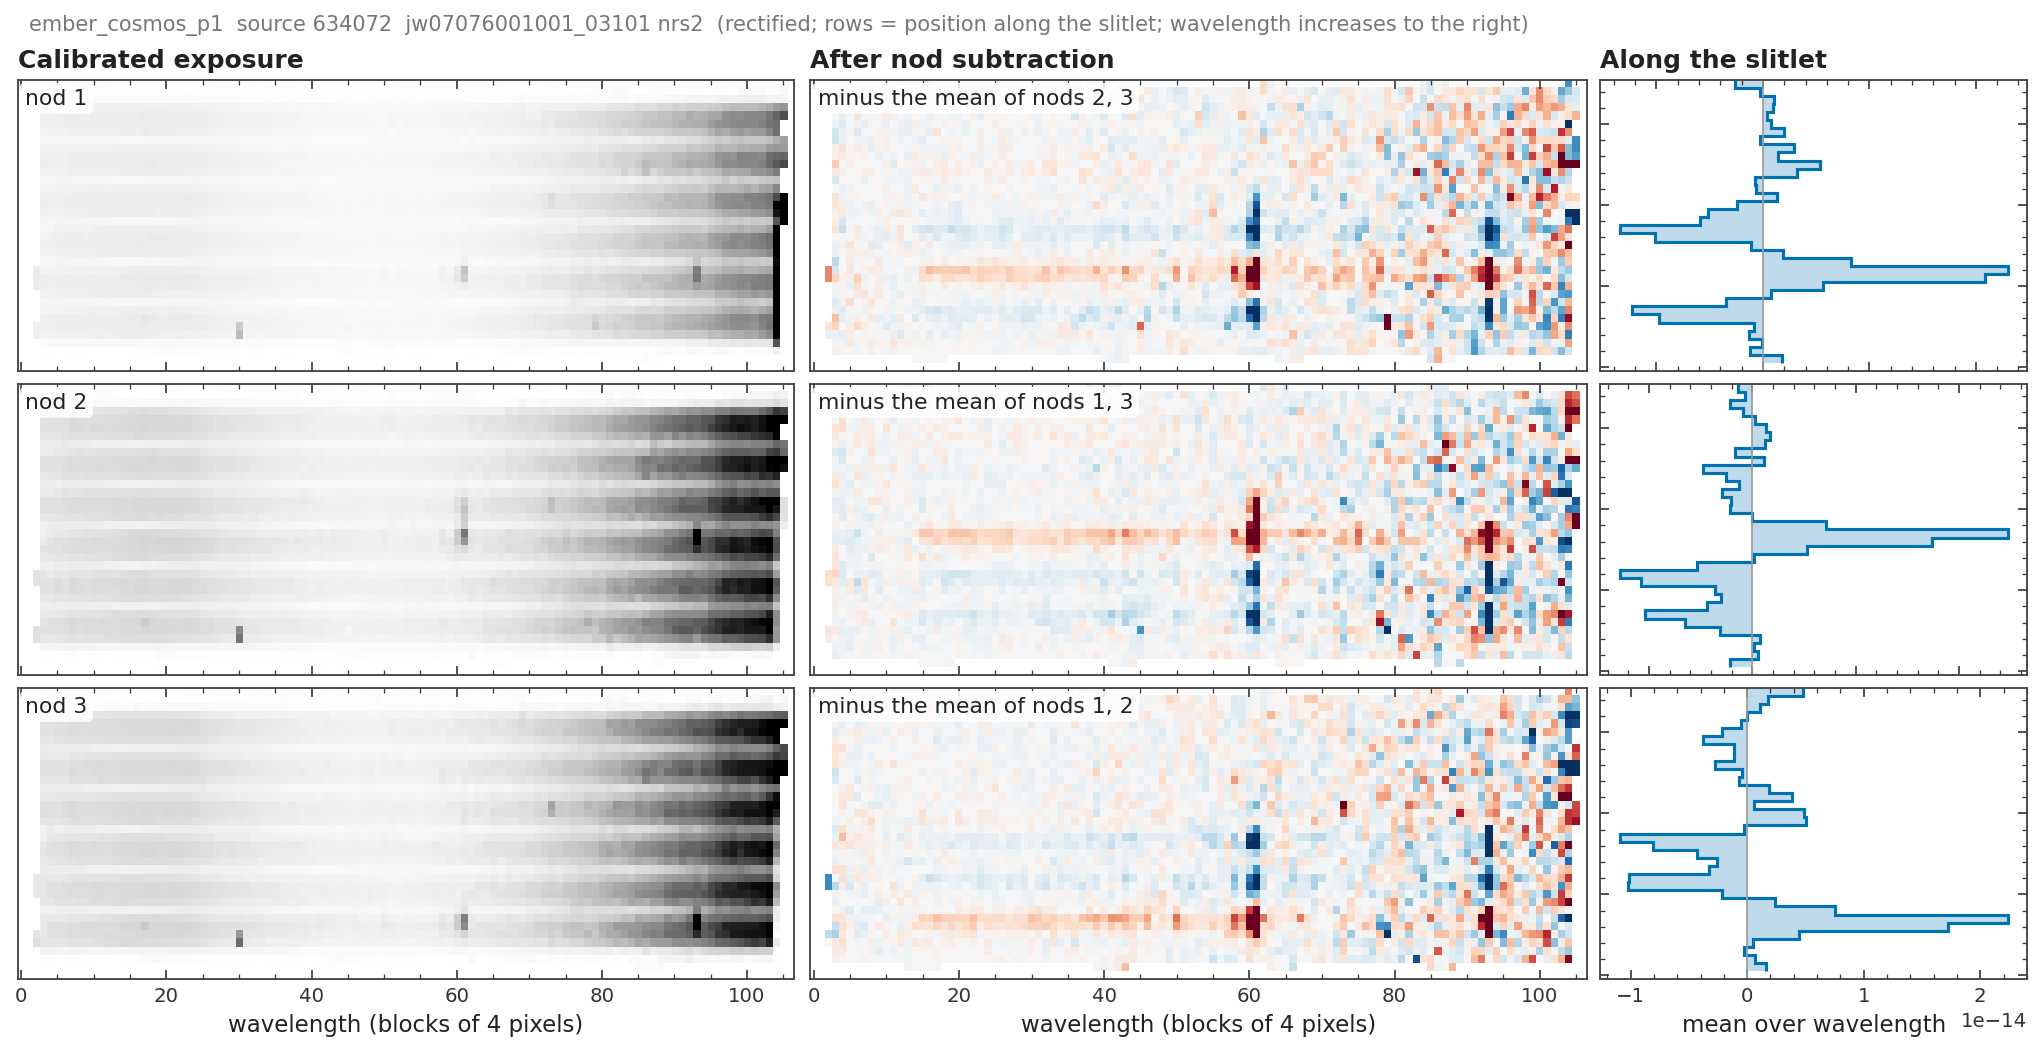
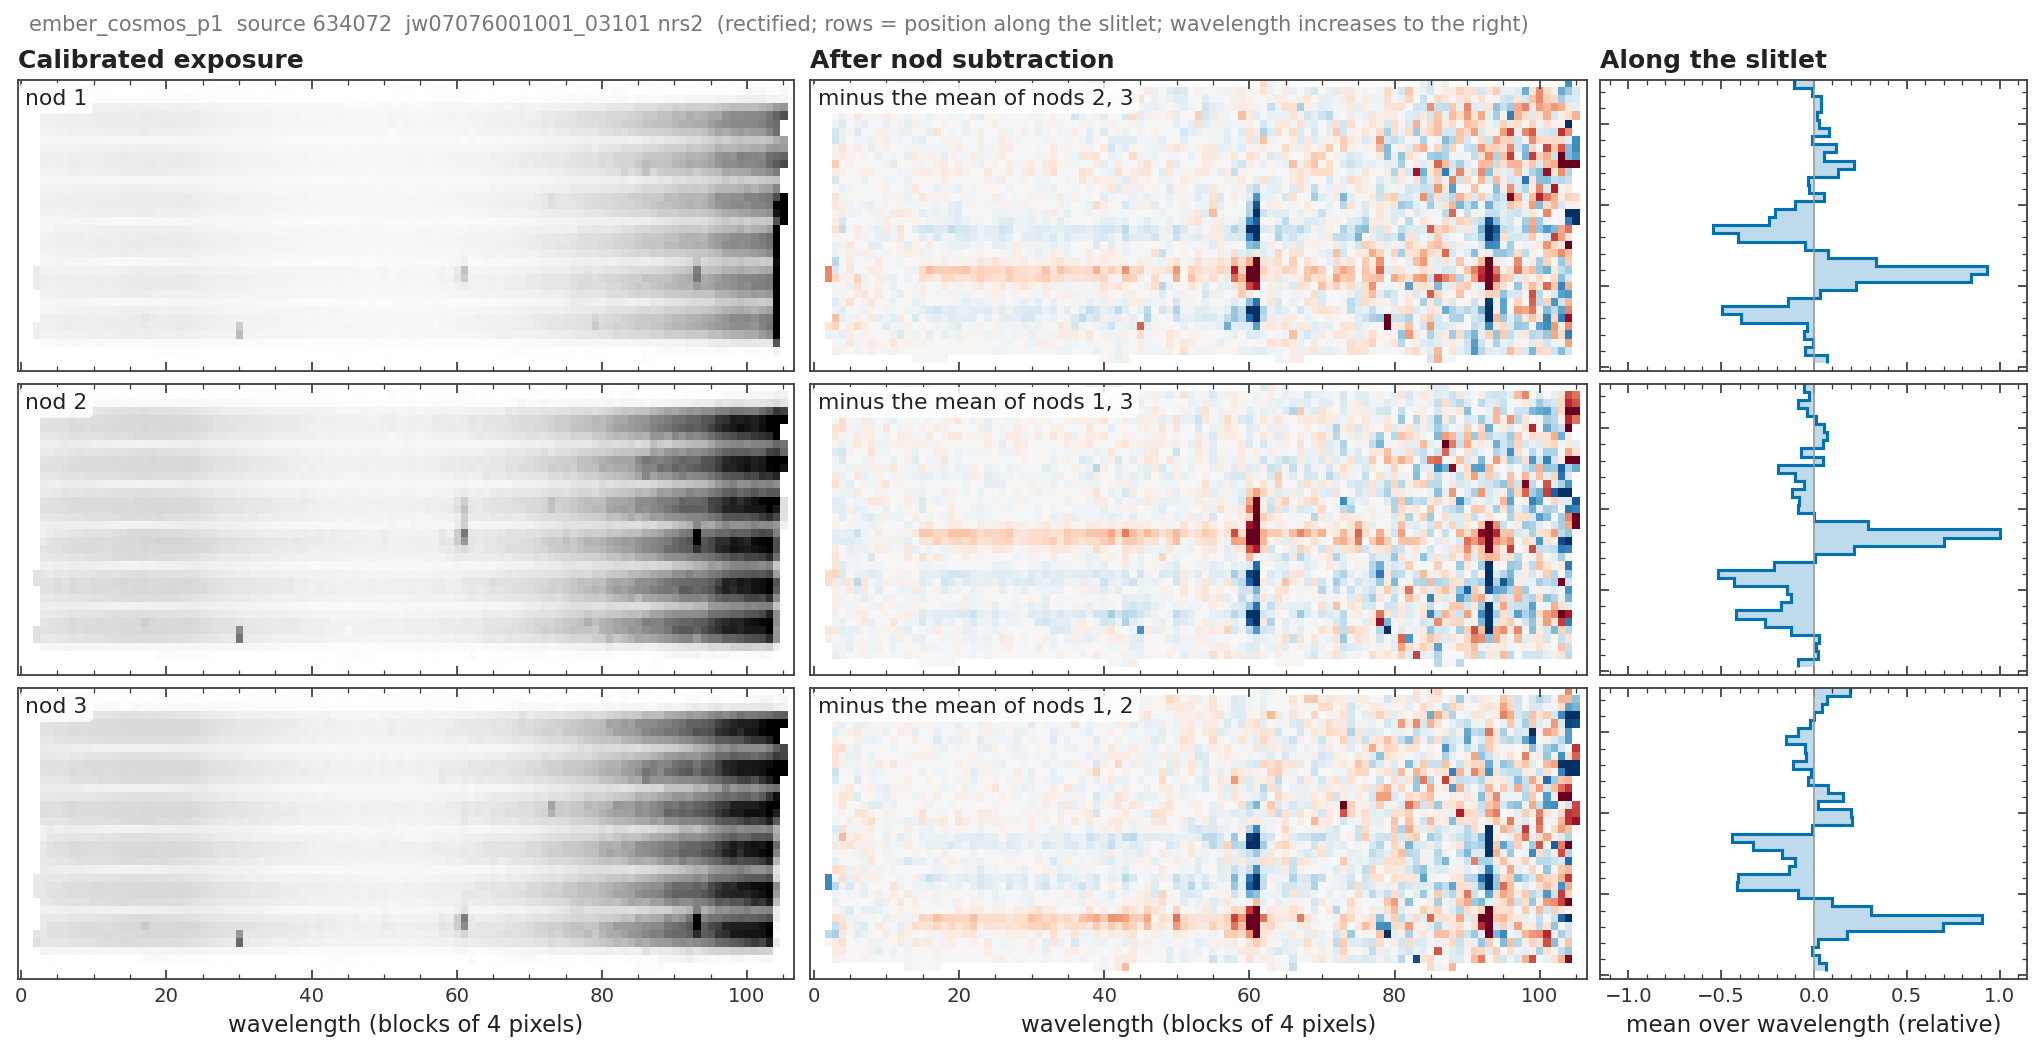
docs: both nod-subtraction figures on PRISM (634072; 925404 with a nod left out), relative profile scale
Claude-Session: https://claude.ai/code/session_019a5zAo87B6jUK2ZMiF6xjZ

Changed region(s): [[0.7713, 0.0608, 0.9873, 1.0], [0.9564, 0.8517, 0.9873, 0.8821], [0.9564, 0.2433, 0.9873, 0.2738]]

diff --git a/scripts/docs/nirspec/fig_nod_subtraction.py b/scripts/docs/nirspec/fig_nod_subtraction.py
@@ -57,9 +57,12 @@ for f in files:
 frames.sort(key=lambda d: d['nod'])
 same_grid = len({fr['before_full'].shape for fr in frames}) == 1
 va = np.nanpercentile(np.abs(np.concatenate([fr['after'].ravel() for fr in frames])), 99)
+# profiles on one relative scale: 1 = the brightest point of any subtracted profile
+pscale = max(np.nanmax(np.abs(np.nanmean(fr['after_full'], axis=1))) for fr in frames)
 
 fig, axes = plt.subplots(len(frames), 3, figsize=(13.5, 2.0 * len(frames) + 0.9), constrained_layout=True,
                          squeeze=False, gridspec_kw=dict(width_ratios=[1, 1, 0.55]))
+handles = None
 for r, fr in enumerate(frames):
     others = [o for o in frames if o is not fr]
     ax = axes[r, 0]
@@ -68,19 +71,22 @@ for r, fr in enumerate(frames):
     ax = axes[r, 1]
     ax.imshow(fr['after'], cmap='RdBu_r', vmin=-va, vmax=va, aspect='auto')
     used = fr['used'] if fr['override'] else ', '.join(str(o['nod']) for o in others)
-    C.label_panel(ax, f'minus nod {used}' if fr['override'] else f'minus the mean of nods {used}')
+    if fr['override']:
+        left = ', '.join(str(o['nod']) for o in others if str(o['nod']) not in fr['used'].split(','))
+        who = fr['why'].split(' at ')[0]
+        C.label_panel(ax, f'minus nod {used}\n(nod {left} left out: {who} in its shutter)')
+    else:
+        C.label_panel(ax, f'minus the mean of nods {used}')
     ax = axes[r, 2]
     rows = np.arange(fr['after_full'].shape[0])
     ax.axvline(0, color='#999999', lw=0.8)
-    C.profile_step(ax, np.nanmean(fr['after_full'], axis=1), rows, C.PALETTE[0], vertical=True,
+    C.profile_step(ax, np.nanmean(fr['after_full'], axis=1) / pscale, rows, C.PALETTE[0], vertical=True,
                    label='as subtracted')
     if fr['override'] and same_grid:
         alt = fr['before_full'] - np.nanmean([o['before_full'] for o in others], axis=0)
-        C.profile_step(ax, np.nanmean(alt, axis=1), rows, C.PALETTE[5], vertical=True, fill_alpha=0, ls='--',
-                       label='with every other nod')
-        ax.legend(loc='lower right', fontsize=8.5)
-        ax.text(0.02, 0.98, f'nod left out: {fr["why"]}', transform=ax.transAxes, fontsize=8.5, va='top',
-                color=C.INK)
+        C.profile_step(ax, np.nanmean(alt, axis=1) / pscale, rows, C.PALETTE[5], vertical=True, fill_alpha=0,
+                       ls='--', label='if no nod were left out')
+        handles = ax.get_legend_handles_labels()
     ax.set_ylim(rows[0] - 0.5, rows[-1] + 0.5)
     for a in axes[r, :2]:
         a.set_yticks([])
@@ -94,7 +100,11 @@ axes[0, 2].set_title('Along the slitlet')
 xl = f'wavelength (blocks of {args.bin} pixels)' if args.bin > 1 else 'wavelength pixel'
 axes[-1, 0].set_xlabel(xl)
 axes[-1, 1].set_xlabel(xl)
-axes[-1, 2].set_xlabel('mean over wavelength')
+axes[-1, 2].set_xlabel('mean over wavelength (relative)')
+for a in axes[:, 2]:
+    a.set_xlim(-1.15, 1.15)
+if handles:
+    fig.legend(*handles, loc='outside lower right', ncol=2, fontsize=9.5)
 fig.suptitle(f'{args.obs}  source {args.source}  {args.exposure_group} {args.detector}  (rectified; rows = position '
              'along the slitlet; wavelength increases to the right)', x=0.01, ha='left', fontsize=10, color=C.MUTED)
 C.save(fig, args, 'nod_subtraction.png')
